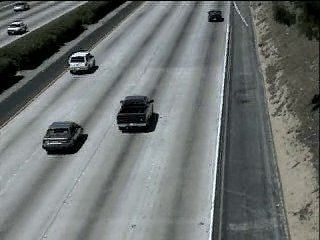
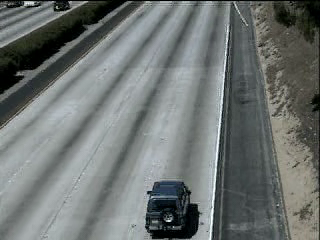
added dynamic snap creation

diff --git a/vehicle_detection_images.py b/vehicle_detection_images.py
@@ -1,65 +1,67 @@
 import cv2
+from main import create_snap
  
 face_cascade = cv2.CascadeClassifier('cars.xml')
 
 
-frame = cars = []
-car_number = {}
 
-for i in range(1, 5):
+available = True
+count = 1
 
-	frame = cv2.imread("snaps/" + str(i) + ".png")
+while available:
 
-	# cv2.imshow("abc_color", frame)
-	# cv2.waitKey(0)
+	frame = cars = []
+	car_number = {}
 
-	gray = cv2.cvtColor(frame , cv2.COLOR_BGR2GRAY)
+	for i in range(1, 5):
+		frame = cv2.imread("snaps/" + str(i) + ".png")
 
-	# cv2.imshow("abc", gray)
-	# cv2.waitKey(0)
+		# cv2.imshow("abc_color", frame)
+		# cv2.waitKey(0)
 
-	cars_temp =  face_cascade.detectMultiScale(gray, 1.1, 1) 
-	# cars_2 = face_cascade.detectMultiScale(gray, 1.1, 2)
+		gray = cv2.cvtColor(frame , cv2.COLOR_BGR2GRAY)
 
-	# print cars_temp
+		# cv2.imshow("abc", gray)
+		# cv2.waitKey(0)
 
-	ind_lane_count = 0
-	for (x,y,w,h) in cars_temp:
-	    cv2.rectangle(frame,(x,y),(x+w,y+h),(255, 0, 0),2)
-	    ind_lane_count += 1
+		cars_temp =  face_cascade.detectMultiScale(gray, 1.1, 1) 
+		# cars_2 = face_cascade.detectMultiScale(gray, 1.1, 2)
 
-	
+		# print cars_temp
 
-	if i == 1:
-		frame0 = frame
-		car_number["direction0"] = ind_lane_count
-	elif i == 2:
-		frame1 = frame
-		car_number["direction1"] = ind_lane_count
-	elif i == 3:
-		frame2 = frame
-		car_number["direction2"] = ind_lane_count
-	else:
-		frame3 = frame
-		car_number["direction3"] = ind_lane_count
+		ind_lane_count = 0
+		for (x,y,w,h) in cars_temp:
+		    cv2.rectangle(frame,(x,y),(x+w,y+h),(255, 0, 0),2)
+		    ind_lane_count += 1
 
-	# for (x,y,w,h) in cars_2:
-	#     cv2.rectangle(frame,(x,y),(x+w,y+h),(0,0,0),2)
-	#     ncars = ncars + 1
+		
 
-	# show result
-	# cv2.imshow("Result", frame)
-	# cv2.waitKey(0)
+		if i == 1:
+			frame0 = frame
+			car_number["direction0"] = ind_lane_count
+		elif i == 2:
+			frame1 = frame
+			car_number["direction1"] = ind_lane_count
+		elif i == 3:
+			frame2 = frame
+			car_number["direction2"] = ind_lane_count
+		else:
+			frame3 = frame
+			car_number["direction3"] = ind_lane_count
 
-for i in car_number:
-	print i, "=>",  car_number[i]
+		# for (x,y,w,h) in cars_2:
+		#     cv2.rectangle(frame,(x,y),(x+w,y+h),(0,0,0),2)
+		#     ncars = ncars + 1
 
-print car_number["direction0"]
+		# show result
+		# cv2.imshow("Result", frame)
+		# cv2.waitKey(0)
 
-cv2.imshow("direction0", frame0)
-cv2.imshow("direction1", frame1)
-cv2.imshow("direction2", frame2)
-cv2.imshow("direction3", frame3)
+	for i in car_number:
+			print i, "=>",  car_number[i]
+
+	available = create_snap(count)
+	count += 1
 
 cv2.waitKey(0)
 

diff --git a/main.py b/main.py
@@ -1,0 +1,52 @@
+import cv2
+import math
+import numpy as np
+
+def create_snap(time):
+	#################### Setting up the file ################
+	videoFile = "./videos/video1.avi"
+	vidcap = cv2.VideoCapture(videoFile)
+	success,image = vidcap.read()
+
+	#################### Setting up parameters ################
+
+	seconds = 5 * time
+	fps = vidcap.get(cv2.cv.CV_CAP_PROP_FPS) # Gets the frames per second
+	multiplier = int(fps * seconds)
+
+	#################### Initiate Process ################
+
+	count = 0
+	while success:
+		frameId = int(round(vidcap.get(1))) #current frame number, rounded b/c sometimes you get frame intervals which aren't integers...this adds a little imprecision but is likely good enough
+		success, image = vidcap.read()
+
+		if frameId % (multiplier+45) == 0:
+			cv2.imwrite("snaps/4.png", image)
+			count+=1;
+			print frameId, multiplier
+
+		elif frameId % (multiplier+30) == 0:
+			cv2.imwrite("snaps/3.png", image)
+			count+=1;
+			print frameId, multiplier
+
+		elif frameId % (multiplier+15) == 0:
+			cv2.imwrite("snaps/2.png", image)
+			count+=1;
+			print frameId, multiplier
+
+		elif frameId % (multiplier) == 0:
+			cv2.imwrite("snaps/1.png", image)
+			count+=1;
+			print frameId, multiplier
+
+		
+		if count == 4:
+			break
+
+
+	vidcap.release()
+	return success
+
+print create_snap(6)
